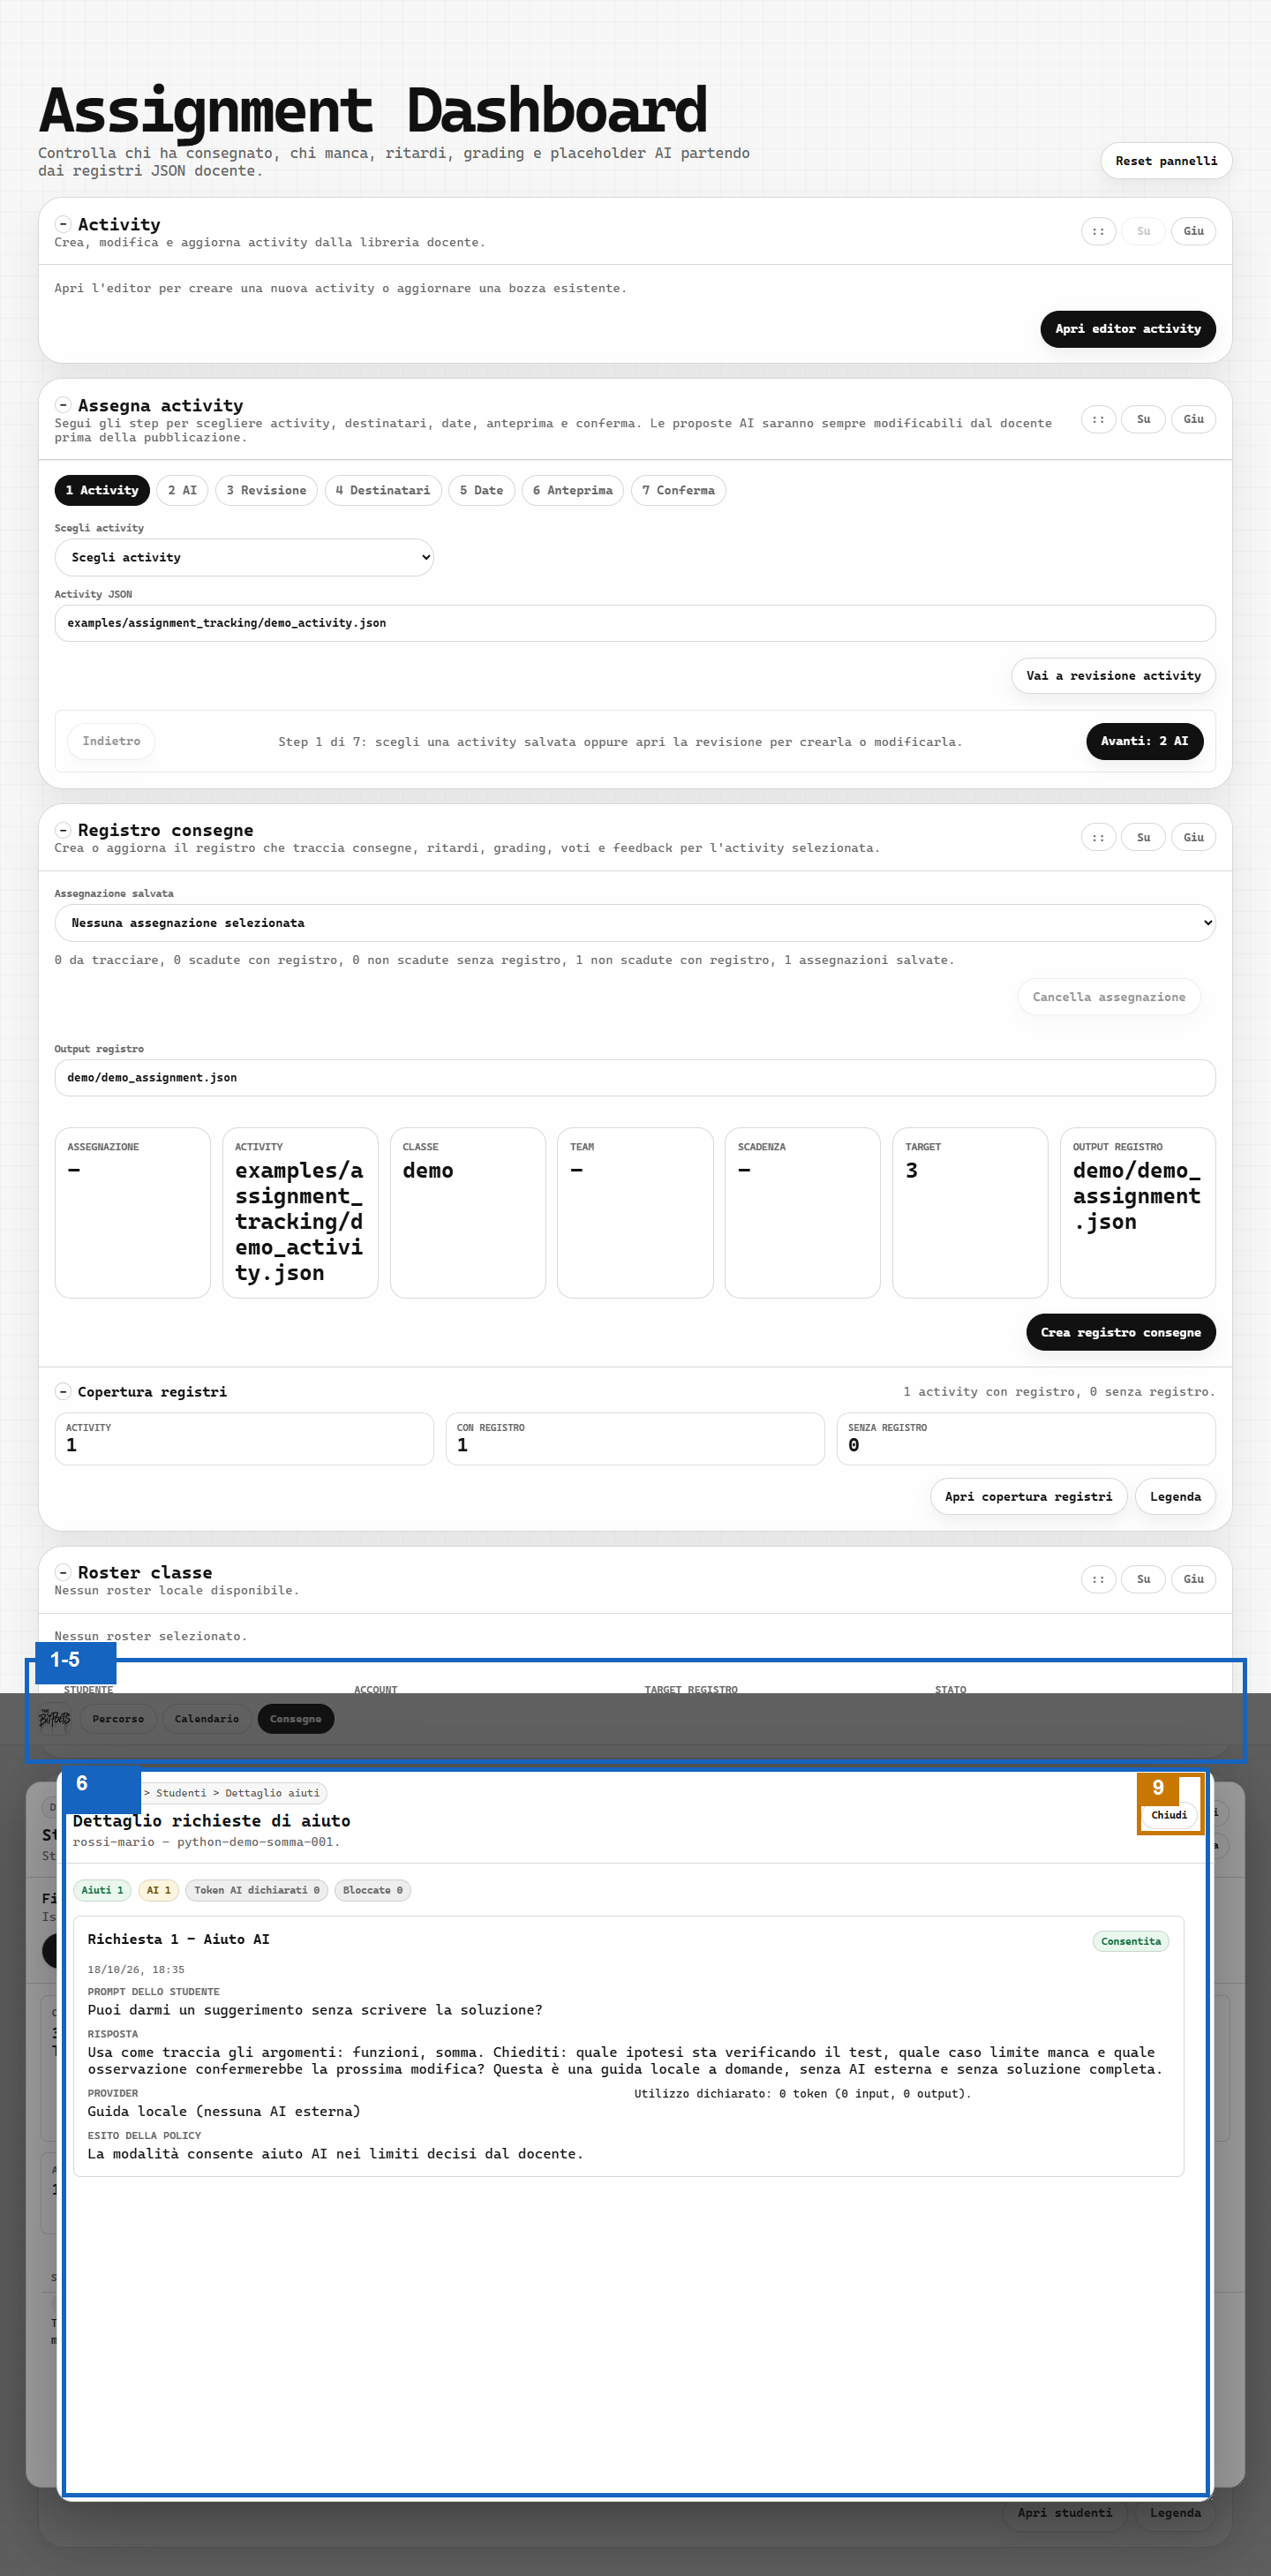
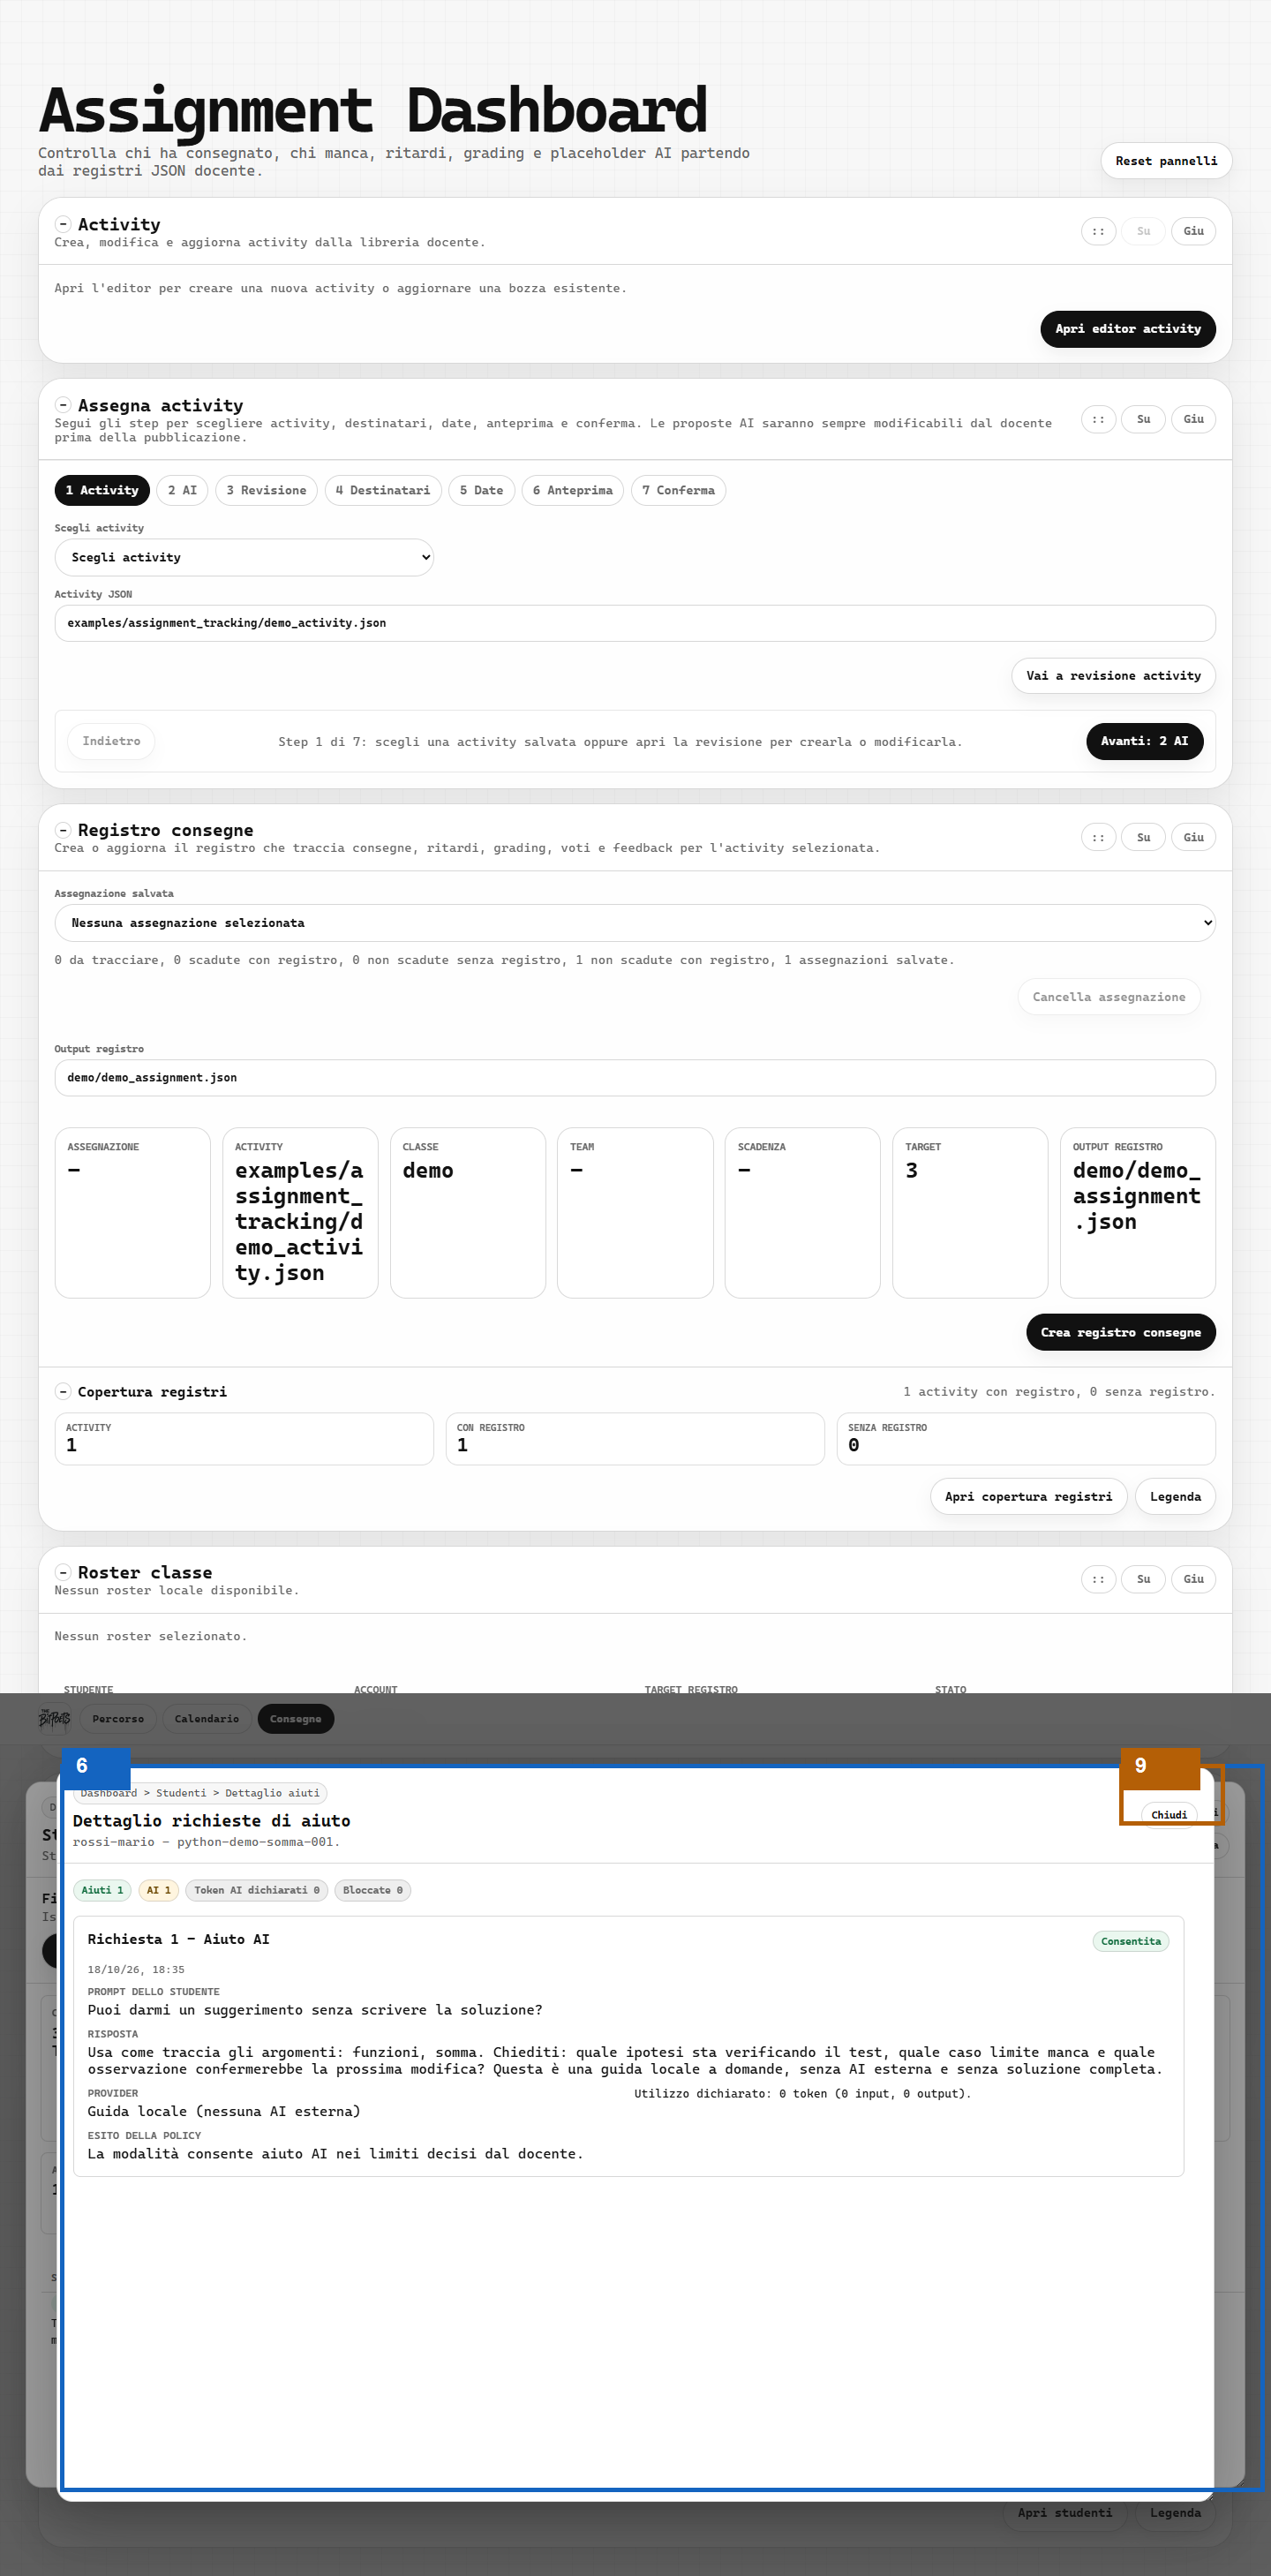
docs: split scenario 4 annotated evidence

Changed region(s): [[0.875, 0.6549, 1.0, 0.9668], [0.0, 0.6237, 0.125, 0.7173]]

diff --git a/doc/SCENARI_TEST_MANUALI_GUI.md b/doc/SCENARI_TEST_MANUALI_GUI.md
@@ -362,7 +362,11 @@ controllare testo, provider e contatori senza affidarsi soltanto al colore.
 <tr>
 <td valign="top" width="52%">
 
-![Modal aiuti docente annotato](images/dashboard-guides/scenario-4-docente-aiuti-colori.png)
+![Scenario 4, passi 1-2: registro caricato](images/dashboard-guides/scenario-4-steps-1-2-registro-colori.png)
+
+![Scenario 4, passi 3-5: pannello Studenti](images/dashboard-guides/scenario-4-steps-3-5-studenti-colori.png)
+
+![Scenario 4, passi 6-8: modal dettagli aiuti](images/dashboard-guides/scenario-4-docente-aiuti-colori.png)
 
 </td>
 <td valign="top">

diff --git a/doc/images/dashboard-guides/README.md b/doc/images/dashboard-guides/README.md
@@ -104,6 +104,8 @@ completa della schermata, mentre quelle annotate servono per trovare rapidamente
 | `scenario-3-docente-quadro-colori.png` | fatto | Dashboard docente | Filtri, vista elenco, riga Rossi e azioni del quadro classe |
 | `scenario-3-docente-quadro.png` | fatto | Dashboard docente | Modal Quadro classe completo con filtri e due studenti |
 | `scenario-4-docente-aiuti-colori.png` | fatto | Dashboard docente | Modal aiuti annotato con numerazione della procedura |
+| `scenario-4-steps-1-2-registro-colori.png` | fatto | Dashboard docente | Evidenza pulita del registro caricato e del riepilogo |
+| `scenario-4-steps-3-5-studenti-colori.png` | fatto | Dashboard docente | Evidenza pulita del pannello Studenti e dei contatori |
 | `scenario-4-docente-aiuti.png` | fatto | Dashboard docente | Prompt, risposta, provider e contatori degli aiuti |
 | `scenario-5-docente-errori-colori.png` | fatto | Dashboard docente | Modal dettaglio errori evidenziato |
 | `scenario-5-docente-errori.png` | fatto | Dashboard docente | Test falliti e dettaglio Python/pytest |